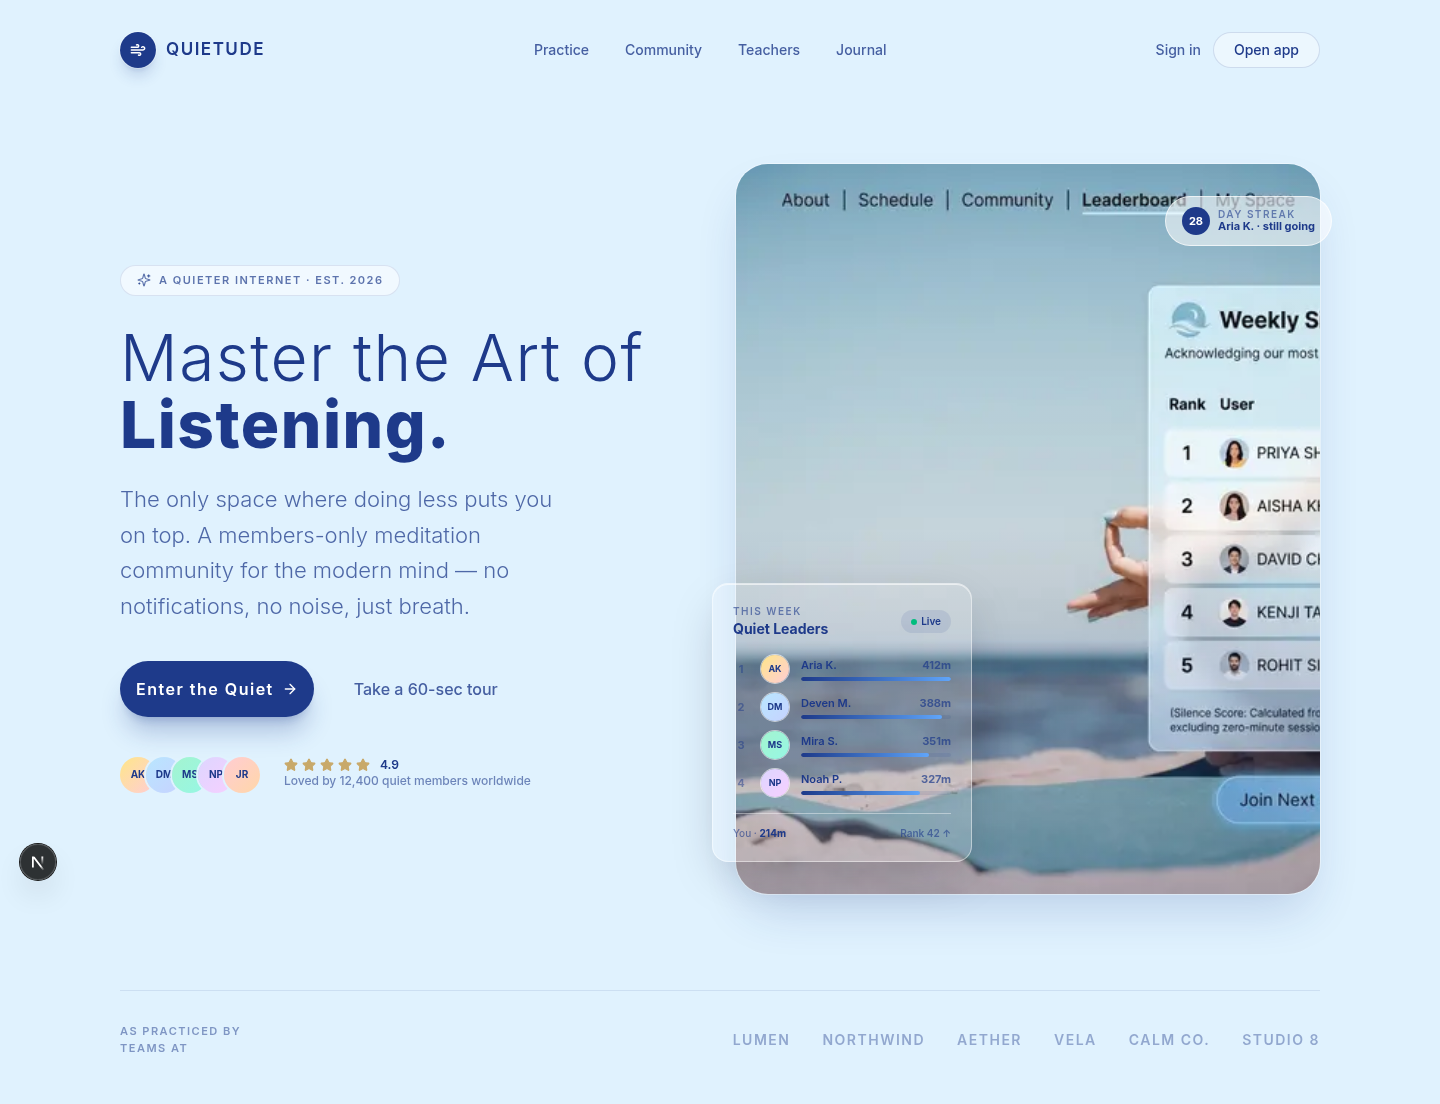
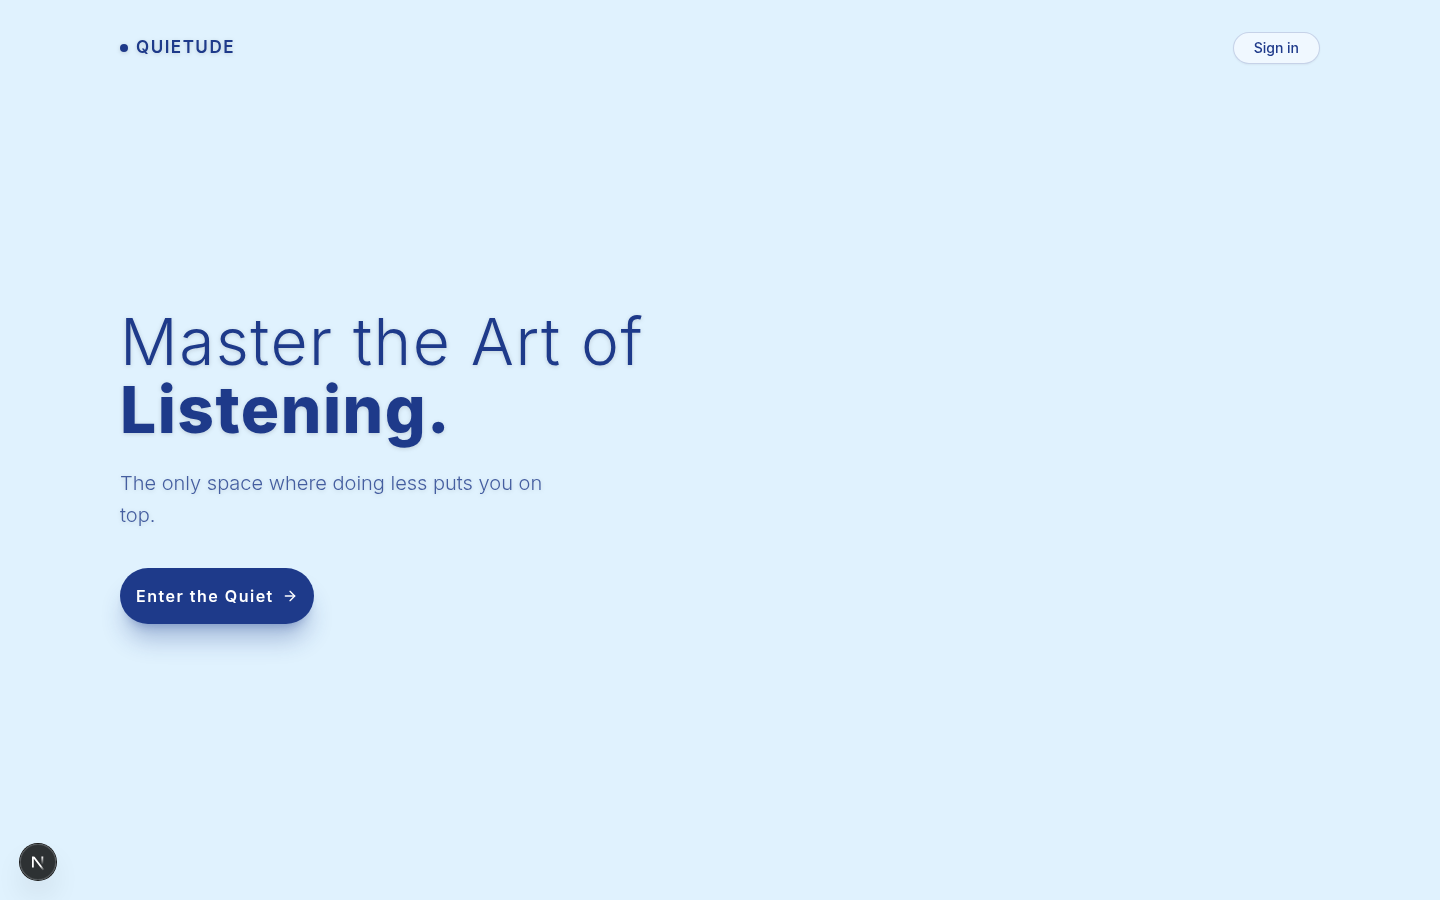
0ebb2828-936e-467b-8d9b-14a7b1ad7627

diff --git a/src/app/page.tsx b/src/app/page.tsx
@@ -1,292 +1,87 @@
 'use client'
 
 import Image from "next/image"
-import { ArrowRight, Sparkles, Wind, Star } from "lucide-react"
+import { ArrowRight } from "lucide-react"
 import { Button } from "@/components/ui/button"
-
-/* ---------- Leaderboard data (static for the hero demo) ---------- */
-const leaders = [
-  { name: "Aria K.",  minutes: 412, streak: 28, hue: "from-amber-200 to-rose-200" },
-  { name: "Deven M.", minutes: 388, streak: 21, hue: "from-sky-200 to-indigo-200" },
-  { name: "Mira S.",  minutes: 351, streak: 19, hue: "from-emerald-200 to-teal-200" },
-  { name: "Noah P.",  minutes: 327, streak: 15, hue: "from-violet-200 to-fuchsia-200" },
-]
 
 export default function Home() {
   return (
     <main className="relative min-h-screen w-full overflow-hidden bg-[#E0F2FE] text-[#1E3A8A]">
       {/* -------------------------------------------------------------- */}
-      {/* Atmospheric background layers                                  */}
+      {/* Full-bleed landing page image (the user-provided visual)       */}
       {/* -------------------------------------------------------------- */}
-      <div
-        aria-hidden
-        className="pointer-events-none absolute inset-0 -z-10"
-      >
-        {/* Soft radial sky gradient */}
-        <div className="absolute inset-0 bg-gradient-to-b from-[#F0F9FF] via-[#E0F2FE] to-[#BAE6FD]" />
-        {/* Breathing orb — top-left */}
-        <div className="absolute -left-32 -top-32 h-[34rem] w-[34rem] rounded-full bg-[#7DD3FC] opacity-40 blur-3xl animate-quiet-breathe" />
-        {/* Breathing orb — bottom-right */}
-        <div className="absolute -bottom-40 -right-24 h-[40rem] w-[40rem] rounded-full bg-[#93C5FD] opacity-35 blur-3xl animate-quiet-breathe" style={{ animationDelay: "1.5s" }} />
-        {/* Subtle grid texture */}
-        <div
-          className="absolute inset-0 opacity-[0.025]"
-          style={{
-            backgroundImage:
-              "linear-gradient(to right, #1E3A8A 1px, transparent 1px), linear-gradient(to bottom, #1E3A8A 1px, transparent 1px)",
-            backgroundSize: "56px 56px",
-          }}
+      <div className="absolute inset-0 -z-10">
+        <Image
+          src="/hero-meditation.png"
+          alt="Luxury meditation community landing page — calm beach, meditation pose, glassmorphism leaderboard card"
+          fill
+          priority
+          sizes="100vw"
+          className="object-cover object-center"
         />
+        {/* Left-side darkening gradient so the overlaid text stays readable */}
+        <div className="absolute inset-0 bg-gradient-to-r from-[#E0F2FE]/85 via-[#E0F2FE]/30 to-transparent" />
+        {/* Bottom fade for mobile legibility */}
+        <div className="absolute inset-0 bg-gradient-to-t from-[#1E3A8A]/45 via-transparent to-transparent md:from-transparent" />
       </div>
 
       {/* -------------------------------------------------------------- */}
-      {/* Top navigation                                                 */}
+      {/* Minimal top bar — brand mark + single CTA                     */}
       {/* -------------------------------------------------------------- */}
       <header className="relative z-20 mx-auto flex w-full max-w-7xl items-center justify-between px-6 py-6 md:px-10 md:py-8">
         <a
           href="#"
-          className="group flex items-center gap-2.5"
+          className="flex items-center gap-2 text-[17px] font-semibold tracking-quiet text-[#1E3A8A] drop-shadow-sm"
           aria-label="Quietude home"
         >
-          <span className="relative flex h-9 w-9 items-center justify-center rounded-full bg-[#1E3A8A] text-white shadow-lg shadow-[#1E3A8A]/20">
-            <Wind className="h-4 w-4" strokeWidth={2.2} />
-            <span className="absolute inset-0 rounded-full ring-1 ring-white/30" />
-          </span>
-          <span className="text-[17px] font-semibold tracking-quiet text-[#1E3A8A]">
-            QUIETUDE
-          </span>
+          <span className="flex h-2 w-2 rounded-full bg-[#1E3A8A]" />
+          QUIETUDE
         </a>
 
-        <nav className="hidden items-center gap-9 text-sm font-medium text-[#1E3A8A]/80 md:flex">
-          <a href="#" className="transition-colors hover:text-[#1E3A8A]">Practice</a>
-          <a href="#" className="transition-colors hover:text-[#1E3A8A]">Community</a>
-          <a href="#" className="transition-colors hover:text-[#1E3A8A]">Teachers</a>
-          <a href="#" className="transition-colors hover:text-[#1E3A8A]">Journal</a>
-        </nav>
-
-        <div className="flex items-center gap-3">
-          <a
-            href="#"
-            className="hidden text-sm font-medium text-[#1E3A8A]/80 transition-colors hover:text-[#1E3A8A] sm:inline"
-          >
-            Sign in
-          </a>
-          <Button
-            asChild
-            variant="ghost"
-            className="rounded-full border border-[#1E3A8A]/15 bg-white/40 px-5 text-[#1E3A8A] backdrop-blur-md hover:bg-white/70"
-          >
-            <a href="#">Open app</a>
-          </Button>
-        </div>
+        <Button
+          asChild
+          size="sm"
+          className="rounded-full border border-[#1E3A8A]/20 bg-white/50 px-5 text-[#1E3A8A] backdrop-blur-md hover:bg-white/80"
+        >
+          <a href="#">Sign in</a>
+        </Button>
       </header>
 
       {/* -------------------------------------------------------------- */}
-      {/* Hero — split layout (desktop) / stacked (mobile)              */}
+      {/* Hero text overlay — sits on the image's left negative space    */}
       {/* -------------------------------------------------------------- */}
-      <section className="relative z-10 mx-auto flex w-full max-w-7xl flex-col items-center gap-12 px-6 pb-16 pt-6 md:px-10 md:pt-12 lg:flex-row lg:items-center lg:justify-between lg:gap-8 lg:pb-24 lg:pt-16">
-        {/* ----- Left: text column ----- */}
-        <div className="flex w-full flex-1 flex-col items-center text-center lg:items-start lg:text-left">
-          {/* Eyebrow chip */}
-          <div className="animate-quiet-fade-up inline-flex items-center gap-2 rounded-full border border-[#1E3A8A]/12 bg-white/55 px-4 py-1.5 backdrop-blur-md">
-            <Sparkles className="h-3.5 w-3.5 text-[#1E3A8A]/70" />
-            <span className="text-[11px] font-semibold uppercase tracking-quiet text-[#1E3A8A]/70">
-              A quieter internet · est. 2026
-            </span>
-          </div>
-
-          {/* Headline — desktop 56–64px, tablet 40–48px, mobile 32–36px */}
+      <section className="relative z-10 mx-auto flex min-h-[calc(100vh-7rem)] w-full max-w-7xl flex-col justify-center px-6 pb-16 pt-4 md:px-10">
+        <div className="max-w-xl">
+          {/* Headline */}
           <h1
-            className="animate-quiet-fade-up delay-100 mt-7 font-sans font-light leading-[1.05] tracking-quiet text-[#1E3A8A]"
-            style={{
-              fontSize: "clamp(2rem, 6vw, 4rem)",
-            }}
+            className="font-sans font-light leading-[1.05] tracking-quiet text-[#1E3A8A] drop-shadow-sm"
+            style={{ fontSize: "clamp(2.25rem, 5.5vw, 4rem)" }}
           >
             Master the Art of
             <br />
             <span className="font-extrabold">Listening.</span>
           </h1>
 
-          {/* Subtext — desktop 20–24px, tablet 18px, mobile 16px */}
+          {/* Subtext */}
           <p
-            className="animate-quiet-fade-up delay-200 mt-6 max-w-md font-light leading-relaxed text-[#1E3A8A]/75"
-            style={{
-              fontSize: "clamp(1rem, 1.6vw, 1.375rem)",
-            }}
+            className="mt-6 max-w-md font-light leading-relaxed text-[#1E3A8A]/80 drop-shadow-sm"
+            style={{ fontSize: "clamp(1rem, 1.4vw, 1.25rem)" }}
           >
-            The only space where doing less puts you on top. A members-only
-            meditation community for the modern mind — no notifications, no
-            noise, just breath.
+            The only space where doing less puts you on top.
           </p>
 
-          {/* CTA cluster */}
-          <div className="animate-quiet-fade-up delay-300 mt-9 flex w-full flex-col items-center gap-4 sm:flex-row sm:items-center sm:justify-center lg:justify-start">
+          {/* CTA */}
+          <div className="mt-9 flex flex-col items-start gap-4 sm:flex-row sm:items-center">
             <Button
               asChild
               size="lg"
-              className="group h-14 rounded-full bg-[#1E3A8A] px-9 text-base font-semibold tracking-quiet text-white shadow-xl shadow-[#1E3A8A]/25 transition-all hover:bg-[#1E3A8A]/90 hover:shadow-2xl hover:shadow-[#1E3A8A]/30"
+              className="group h-14 rounded-full bg-[#1E3A8A] px-9 text-base font-semibold tracking-quiet text-white shadow-xl shadow-[#1E3A8A]/30 transition-all hover:bg-[#1E3A8A]/90 hover:shadow-2xl"
             >
               <a href="#" className="flex items-center gap-2">
                 Enter the Quiet
                 <ArrowRight className="h-4 w-4 transition-transform group-hover:translate-x-1" />
               </a>
             </Button>
-
-            <Button
-              asChild
-              size="lg"
-              variant="ghost"
-              className="h-14 rounded-full px-6 text-base font-medium text-[#1E3A8A]/80 hover:bg-white/40 hover:text-[#1E3A8A]"
-            >
-              <a href="#">Take a 60-sec tour</a>
-            </Button>
-          </div>
-
-          {/* Trust strip */}
-          <div className="animate-quiet-fade-up delay-400 mt-10 flex flex-col items-center gap-3 sm:flex-row sm:items-center sm:gap-6 lg:items-start lg:text-left">
-            <div className="flex -space-x-2.5">
-              {[
-                "from-amber-200 to-rose-200",
-                "from-sky-200 to-indigo-200",
-                "from-emerald-200 to-teal-200",
-                "from-violet-200 to-fuchsia-200",
-                "from-rose-200 to-orange-200",
-              ].map((hue, i) => (
-                <span
-                  key={i}
-                  className={`flex h-9 w-9 items-center justify-center rounded-full bg-gradient-to-br ${hue} text-[10px] font-bold text-[#1E3A8A] ring-2 ring-[#E0F2FE]`}
-                >
-                  {["AK", "DM", "MS", "NP", "JR"][i]}
-                </span>
-              ))}
-            </div>
-            <div className="flex flex-col items-center sm:items-start">
-              <div className="flex items-center gap-1">
-                {Array.from({ length: 5 }).map((_, i) => (
-                  <Star key={i} className="h-3.5 w-3.5 fill-[#c8a96a] text-[#c8a96a]" />
-                ))}
-                <span className="ml-1.5 text-xs font-semibold text-[#1E3A8A]">4.9</span>
-              </div>
-              <p className="text-xs font-medium text-[#1E3A8A]/60">
-                Loved by 12,400 quiet members worldwide
-              </p>
-            </div>
-          </div>
-        </div>
-
-        {/* ----- Right: hero image + floating glass card ----- */}
-        <div className="animate-quiet-fade-up delay-200 relative w-full max-w-xl flex-1 lg:max-w-none">
-          <div className="relative aspect-[4/5] w-full overflow-hidden rounded-[2rem] shadow-2xl shadow-[#1E3A8A]/20 ring-1 ring-white/40 sm:aspect-[5/5] md:aspect-[4/3] lg:aspect-[4/5]">
-            <Image
-              src="/hero-meditation.png"
-              alt="Yoga practitioner in meditation pose on a calm beach at sunrise"
-              fill
-              priority
-              sizes="(max-width: 1024px) 100vw, 50vw"
-              className="object-cover"
-            />
-            {/* Top-down fade so text on image stays readable */}
-            <div className="absolute inset-0 bg-gradient-to-t from-[#1E3A8A]/30 via-transparent to-white/5" />
-          </div>
-
-          {/* Floating glassmorphism leaderboard card (desktop + tablet) */}
-          <div className="absolute -left-6 bottom-8 w-[260px] animate-quiet-float hidden sm:block">
-            <div className="glass-card rounded-2xl p-5">
-              <div className="flex items-center justify-between">
-                <div>
-                  <p className="text-[10px] font-semibold uppercase tracking-quiet text-[#1E3A8A]/60">
-                    This Week
-                  </p>
-                  <p className="text-sm font-bold text-[#1E3A8A]">Quiet Leaders</p>
-                </div>
-                <span className="flex items-center gap-1 rounded-full bg-[#1E3A8A]/10 px-2.5 py-1 text-[10px] font-semibold text-[#1E3A8A]">
-                  <span className="h-1.5 w-1.5 rounded-full bg-emerald-500" />
-                  Live
-                </span>
-              </div>
-
-              <div className="mt-4 space-y-2.5">
-                {leaders.slice(0, 4).map((l, i) => (
-                  <div key={l.name} className="flex items-center gap-3">
-                    <span className="w-4 text-center text-[11px] font-bold text-[#1E3A8A]/50">
-                      {i + 1}
-                    </span>
-                    <span
-                      className={`flex h-7 w-7 items-center justify-center rounded-full bg-gradient-to-br ${l.hue} text-[9px] font-bold text-[#1E3A8A] ring-1 ring-white/60`}
-                    >
-                      {l.name.split(" ").map((w) => w[0]).join("")}
-                    </span>
-                    <div className="flex-1">
-                      <div className="flex items-center justify-between">
-                        <span className="text-[11px] font-semibold text-[#1E3A8A]">{l.name}</span>
-                        <span className="text-[11px] font-bold text-[#1E3A8A]/70">{l.minutes}m</span>
-                      </div>
-                      <div className="mt-1 h-1 w-full overflow-hidden rounded-full bg-[#1E3A8A]/10">
-                        <div
-                          className="h-full rounded-full bg-gradient-to-r from-[#1E3A8A] to-[#60A5FA]"
-                          style={{ width: `${(l.minutes / 412) * 100}%` }}
-                        />
-                      </div>
-                    </div>
-                  </div>
-                ))}
-              </div>
-
-              <div className="mt-4 flex items-center justify-between border-t border-white/40 pt-3">
-                <span className="text-[10px] font-medium text-[#1E3A8A]/60">
-                  You · <span className="font-bold text-[#1E3A8A]">214m</span>
-                </span>
-                <span className="text-[10px] font-semibold text-[#1E3A8A]/60">
-                  Rank 42 ↑
-                </span>
-              </div>
-            </div>
-          </div>
-
-          {/* Floating streak chip (desktop + tablet) */}
-          <div className="absolute -right-3 top-8 animate-quiet-float hidden sm:block" style={{ animationDelay: "1.2s" }}>
-            <div className="glass-chip flex items-center gap-2 rounded-full px-4 py-2.5">
-              <span className="flex h-7 w-7 items-center justify-center rounded-full bg-[#1E3A8A] text-[11px] font-bold text-white">
-                28
-              </span>
-              <div className="leading-tight">
-                <p className="text-[10px] font-semibold uppercase tracking-quiet text-[#1E3A8A]/60">Day streak</p>
-                <p className="text-[11px] font-bold text-[#1E3A8A]">Aria K. · still going</p>
-              </div>
-            </div>
-          </div>
-
-          {/* Mobile-only simplified stat chip (below the image) */}
-          <div className="mt-5 flex items-center justify-center gap-3 sm:hidden">
-            <div className="glass-chip flex items-center gap-2 rounded-full px-4 py-2">
-              <span className="flex h-6 w-6 items-center justify-center rounded-full bg-[#1E3A8A] text-[10px] font-bold text-white">12.4k</span>
-              <span className="text-xs font-semibold text-[#1E3A8A]">quiet members</span>
-            </div>
-            <div className="glass-chip flex items-center gap-2 rounded-full px-4 py-2">
-              <Star className="h-3.5 w-3.5 fill-[#c8a96a] text-[#c8a96a]" />
-              <span className="text-xs font-semibold text-[#1E3A8A]">4.9 rating</span>
-            </div>
-          </div>
-        </div>
-      </section>
-
-      {/* -------------------------------------------------------------- */}
-      {/* Brand strip — subtle social proof                             */}
-      {/* -------------------------------------------------------------- */}
-      <section className="relative z-10 mx-auto w-full max-w-7xl px-6 pb-12 md:px-10">
-        <div className="flex flex-col items-center gap-4 border-t border-[#1E3A8A]/10 pt-8 text-center md:flex-row md:justify-between md:text-left">
-          <p className="text-[11px] font-semibold uppercase tracking-quiet text-[#1E3A8A]/50">
-            As practiced by teams at
-          </p>
-          <div className="no-scrollbar flex w-full items-center justify-center gap-8 overflow-x-auto md:justify-end">
-            {["Lumen", "Northwind", "Aether", "Vela", "Calm Co.", "Studio 8"].map((brand) => (
-              <span
-                key={brand}
-                className="whitespace-nowrap text-sm font-semibold tracking-quiet text-[#1E3A8A]/40"
-              >
-                {brand.toUpperCase()}
-              </span>
-            ))}
           </div>
         </div>
       </section>